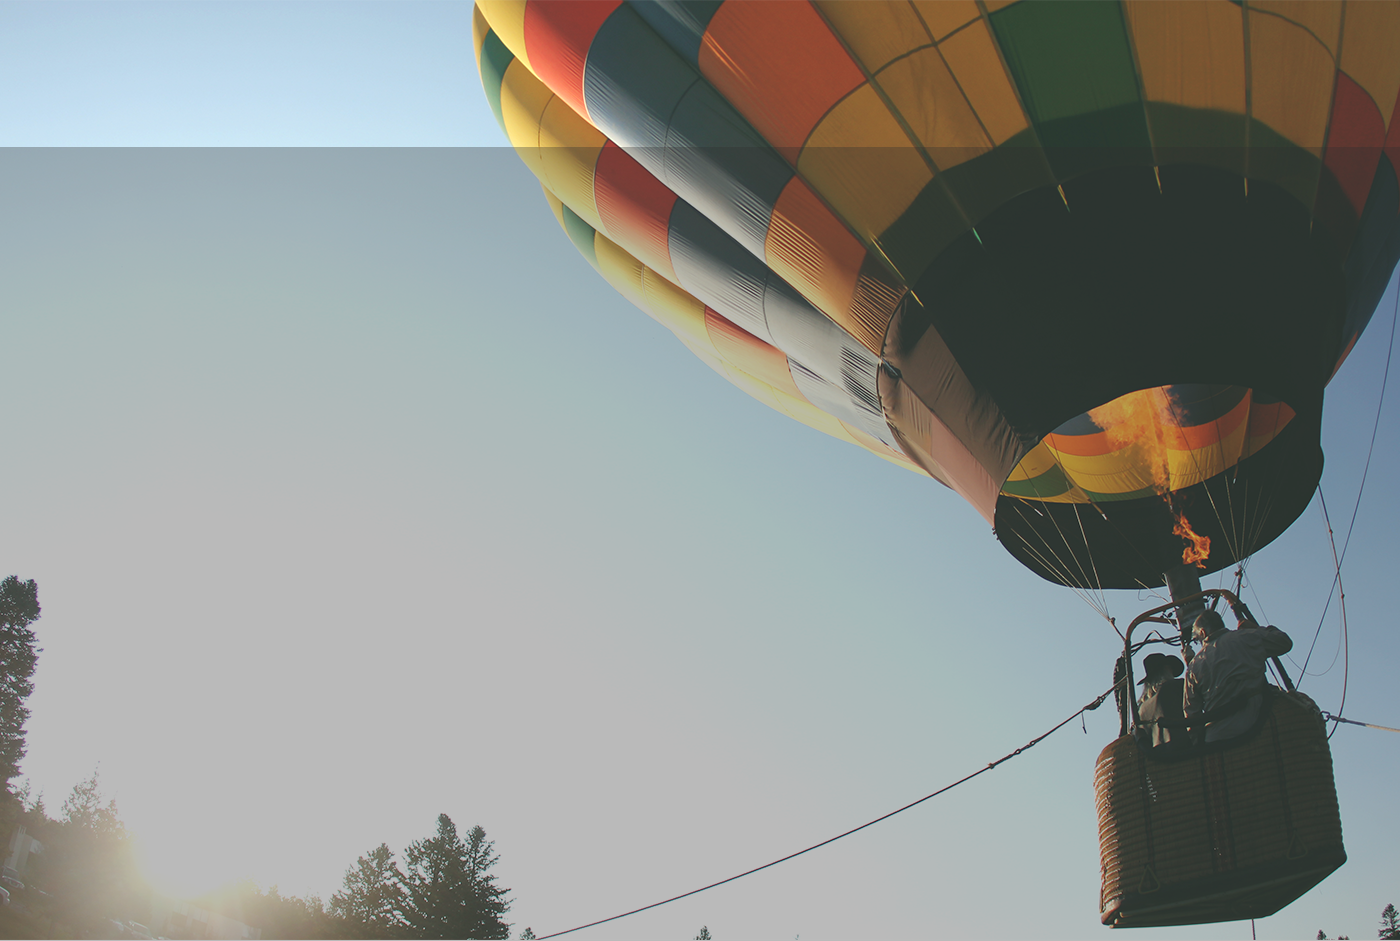
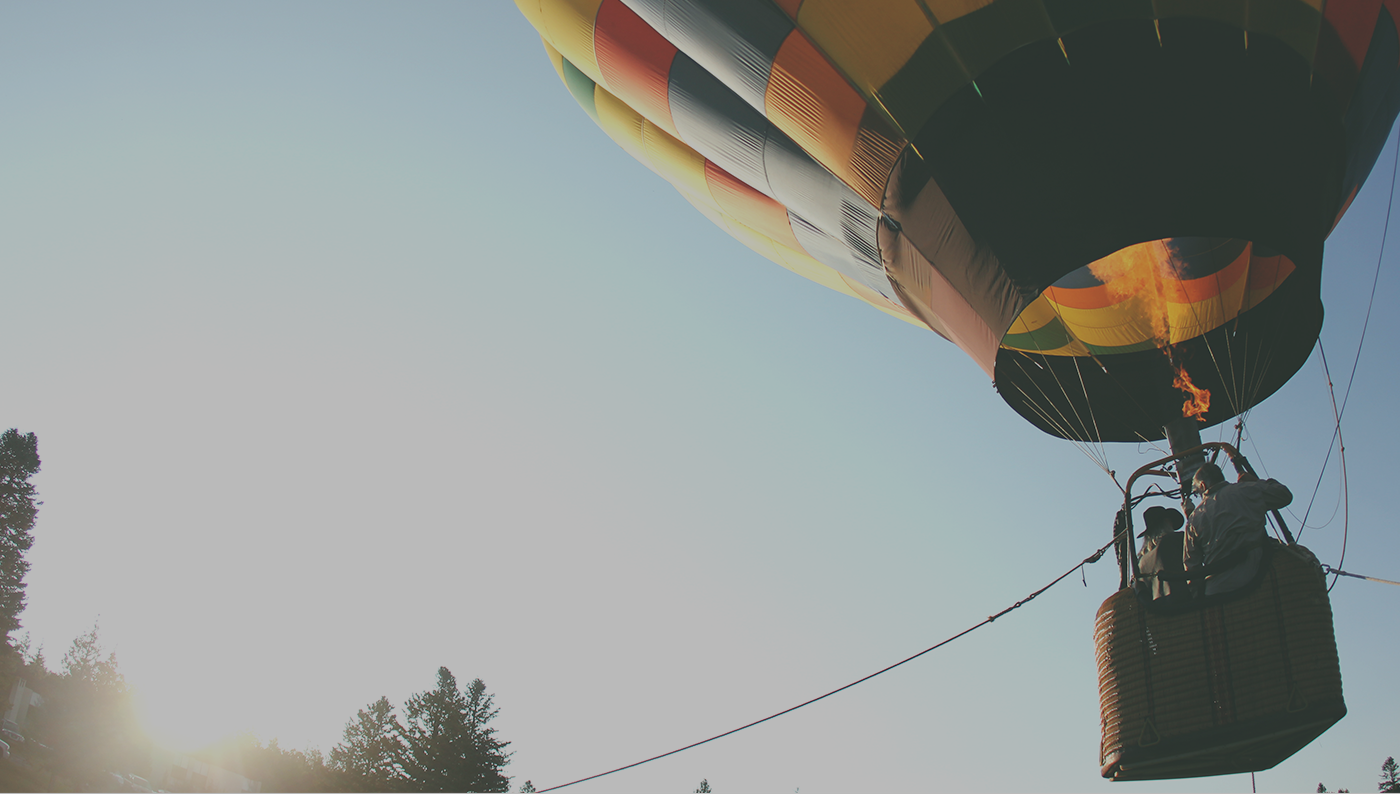
task4

diff --git a/index.css b/index.css
@@ -4,8 +4,10 @@
     padding: 0;
 }
 body{
-    background: black;
+    background: rgb(213, 231, 255);
     min-width: 1400px;
+    font-family: Helvetica, Tahoma, Arial;
+    text-align: center;
 }
 #nav{
     width: 100%;
@@ -35,10 +37,13 @@ ul li{
     margin: auto 15px;
     line-height: 90px;
 }
+ul li a:hover{
+    color: orange;
+}
 #ul{
     width: 500px;
     height: 30px;
-    margin-left: 100px;
+    margin-left: -200px;
 }
 #tel{
     float: right;
@@ -46,10 +51,180 @@ ul li{
     font-size: 20px;
 }
 #xian1{
-    float:right;/*左漂浮*/
-    width: 1px;
-    height: 25px;/*竖线高度*/
-    background: rgb(92, 90, 90);/*填充颜色*/
+    float:right;
+    width: 2px;
+    height: 25px;
+    background: rgba(0, 0, 0, 0.3);
     margin-right: 120px;
-    margin-top: -38px;
+    margin-top: -40px;
+}
+#live{
+    width: 100px;
+    height: 36px;
+    background: rgb(240, 217, 102);
+    float: right;
+    margin-right: 140px;
+    margin-top: -45px;
+    line-height: 40px;
+    cursor: pointer;  
+}
+#live:hover{
+    background: rgb(230, 184, 4);    
+}
+#xian2{
+    float:right;
+    width: 2px;
+    height: 100%;
+    background: rgba(0, 0, 0, 0.2);
+    margin-right: 290px;
+    margin-top: -90px;
+}
+#container{
+    width: 1300px;
+    margin: 0 auto;
+    position: relative;
+}
+#banner{
+    width: 100%;
+    background: url('img/banner.png');
+    background-size: cover;
+    height: 658px;
+    position: absolute;
+    top: 100px;
+    z-index: 1;
+}
+#p1{
+    font-size: 40px;
+    color: rgba(255, 255, 255, 0.7);
+    margin-top: 200px;
+}
+#p2{
+    font-size: 25px;
+    color: rgba(255, 255, 255, 0.7);
+    margin-top: 20px;
+}
+#share{
+    width: 100px;
+    height: 110px;
+    background: url('img/share.png');
+    margin:30px auto;
+    z-index: 2;
+}
+#search{
+    border: 10px solid rgba(255, 255, 255, 0.4);
+    width: 400px;
+    height: 38px;
+    margin: 0 auto;
+}
+#input{
+    float: left;
+    height: 100%;
+    width: 50%;
+    font-size: 23px;
+    border: none;
+}
+#com{
+    float: left;
+    height: 100%;
+    width: 20%;
+}
+#xiala{
+    height: 100%;
+    width: 100%;
+    background: rgb(247, 228, 63);
+    font-size: 20px;
+    border: none;
+    cursor: pointer;
+}
+#check{
+    float: right;
+    height: 100%;
+    width: 29.7%;
+    background: rgb(247, 228, 63);
+    font-size: 13px;
+    line-height: 40px;
+    color: rgb(122, 105, 105);
+    cursor: pointer;
+}
+#more{
+    width: 100%;
+    height: 500px;
+    position: absolute;
+    top: 660px;
+    background: black;
+}
+#more1{
+    float: left;
+    width: 50%;
+    height: 100%;
+    background: rgb(43, 42, 58);
+}
+#p3{
+    color: #fff;
+    font-size: 40px;
+    margin-top: 10px;
+}
+.buttons{
+    width: 130px;
+    height: 50px;
+    border: 3px solid #fff;
+    color: white;
+    font-size: 20px;
+    line-height: 50px;
+    cursor: pointer;
+}
+.buttons:hover{
+    background: rgb(255, 166, 0);
+}
+#more2{
+    float: right;
+    width: 50%;
+    height: 100%;
+    background: rgb(252, 211, 78);
+}
+#p4{
+    font-size: 100px;
+    margin-top: 90px;
+}
+#p5{
+    color: #fff;
+    font-size: 40px;
+    margin-top: 60px;
+}
+#Features{
+    background: rgb(255, 251, 218);
+    width: 100%;
+    height: 500px;
+    position: absolute;
+    top: 1160px;
+}
+#p6{
+    font-size: 50px;
+    margin-top: -450px;
+}
+#item{
+    width: 80%;
+    height: 200px;
+    margin: 90px auto;
+}
+#support{
+    float: left;
+    margin-left: 20px;
+}
+.Ffont{
+    margin-top: 50px;
+    color: rgb(252, 186, 55);
+    font-size: 25px;
+}
+#cloud{
+    float: left;
+    margin-left:100px; 
+}
+#data{
+    float: left;
+    margin-left:100px; 
+}
+#monitor{
+    float: left;
+    margin-left:100px; 
 }

diff --git a/index.html b/index.html
@@ -27,7 +27,60 @@
             </div>
             <div id="tel">6284-6534</div>
             <div id="xian1"></div>
-            <div id="live"></div>
+            <div id="live">Live Chat</div>
+            <div id="xian2"></div>
+        </div>
+    </div>
+    <div id="container">
+        <div id="banner">
+            <div id="p1">Just a Proffesional Web Hosting Services</div>
+            <div id="p2">modern - fast - reliable</div>
+            <div id="share"></div>
+            <div id="search">
+                <input type="text" id="input" placeholder="balabala……">
+                <div id="com">
+                    <select name="com" id="xiala">
+                        <option value="1">.com</option>
+                        <option value="2">.cn</option>
+                        <option value="3">.net</option>
+                    </select>
+                </div>
+                <div id="check">Check Availability</div>
+            </div>
+            <div id="more">
+                <div id="more1">
+                    <img src="img/services.png" alt="services" style="margin-top:80px;">
+                    <div id="p3">#1 Webhost Services</div>
+                    <div class="buttons" style="margin:60px auto;">More</div>
+                </div>
+                <div id="more2">
+                    <div id="p4">.com</div>
+                    <div id="p5">#1 Domain Services</div>
+                    <div class="buttons" style="margin:60px auto;">More</div>
+                </div>
+            </div>
+            <div id="Features">
+                <img src="img/Features.png" alt="Features" width="600px;"height="100%">
+                <div id="p6">Our Features</div>
+                <div id="item">
+                    <div id="support">
+                        <div><img src="img/support.png" alt="support"></div>
+                        <div class="Ffont">Live Support</div>
+                    </div>
+                    <div id="cloud">
+                        <div><img src="img/cloud.png" alt="cloud"></div>
+                        <div class="Ffont">Cloud Technology</div>
+                    </div>
+                    <div id="data">
+                        <div><img src="img/data.png" alt="data"></div>
+                        <div class="Ffont">Hi Tech Database</div>
+                    </div>
+                    <div id="monitor">
+                        <div><img src="img/monitor.png" alt="monitor"></div>
+                        <div class="Ffont">Live Monitoring</div>
+                    </div>
+                </div>
+            </div>
         </div>
     </div>
 </body>
